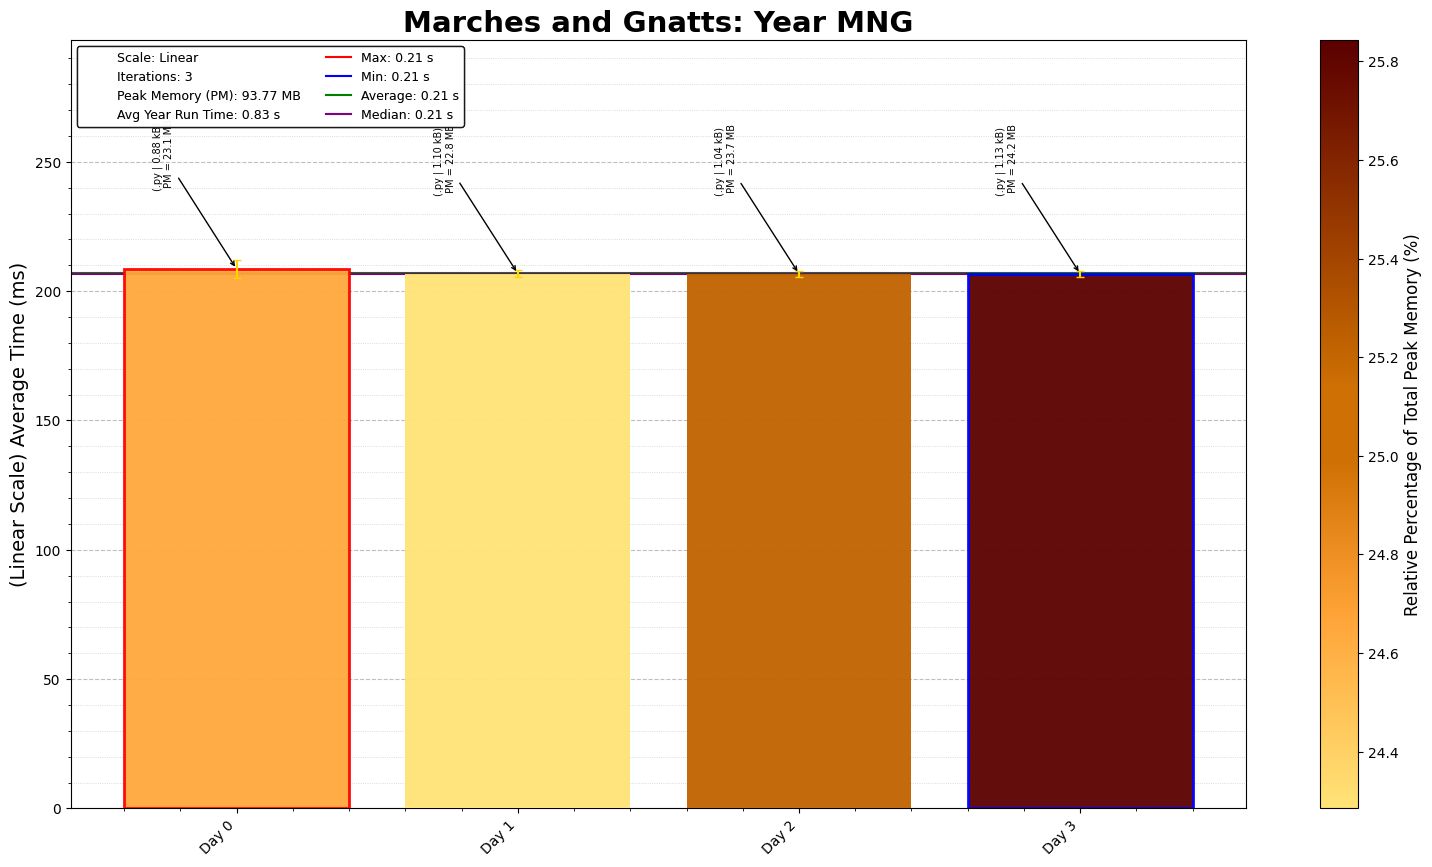
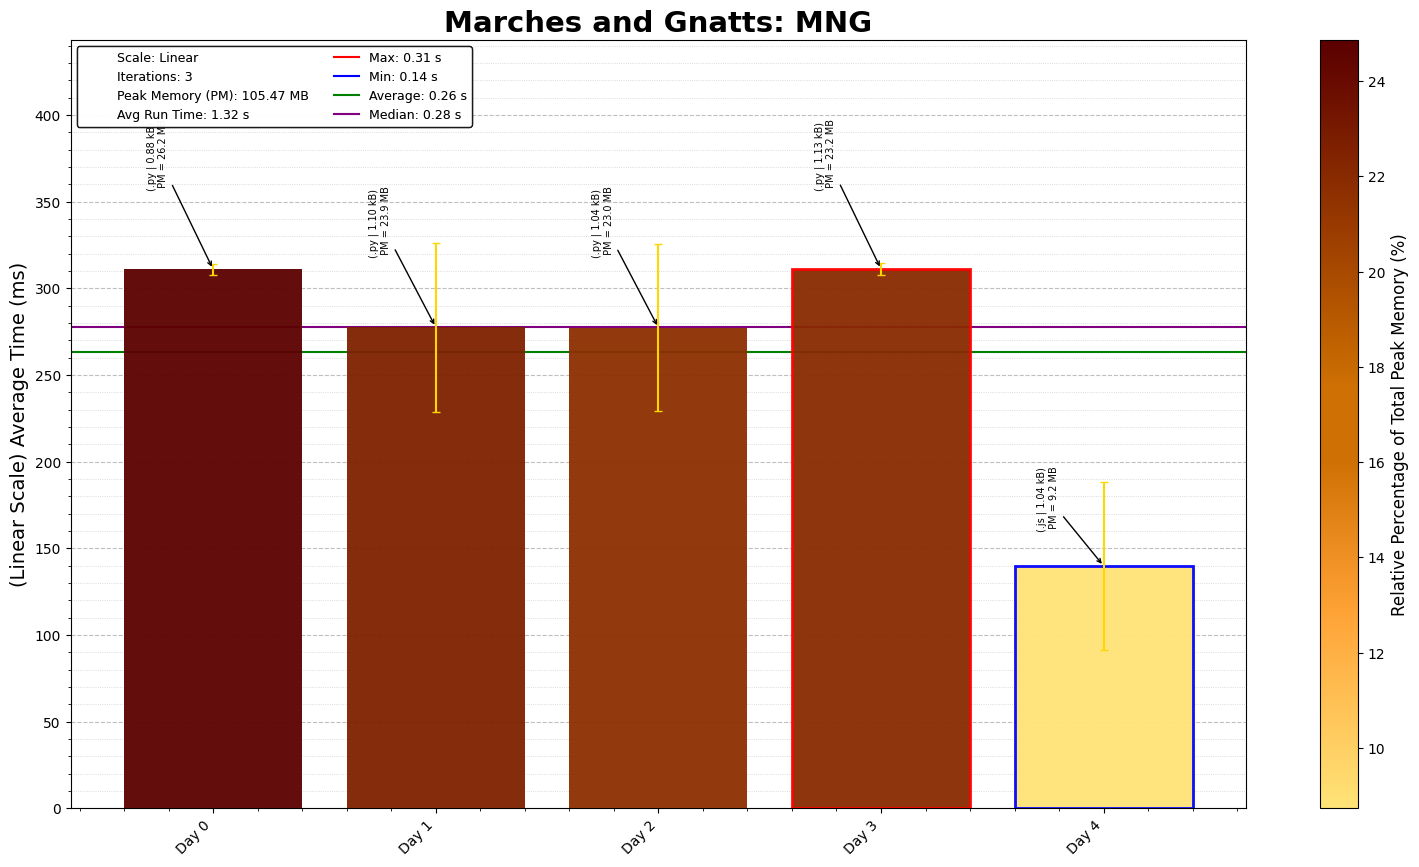
Quest 04: Unary Multiplication

diff --git a/MNG/04/MNGDay04.js b/MNG/04/MNGDay04.js
@@ -1,0 +1,41 @@
+import { TuringConfig, MachineLogic } from '../TuringMachineSim/javascript_machine/TuringBrain.js';
+import { TuringMachine } from '../TuringMachineSim/javascript_machine/BasicRunner.js';
+
+
+// Example usage:
+const rules = `
+INIT  | toB   _ R   // Erase | from a, move to copy b
+INIT  * SKIP  _ R   // All of a consumed, erase '*' and move to HALT
+
+toB   | toB   | R
+toB   * eachB * R   // Move to start copying b
+
+nextA _ INIT  _ R   // After one copy of b, move back to INIT
+nextA | nextA | L
+nextA * nextA * L
+
+SKIP  | SKIP  _ R   // Erase b
+SKIP  _ HALT  _ R
+
+eachB _ nextA _ L   // No more b to copy
+eachB | sep   _ R   // Copy this '|', erase original
+
+sep   _ add   _ R
+sep   | sep   | R
+
+add   _ sepL  | L   // Add copy of b to end
+add   | add   | R
+
+sepL  _ nextB _ L
+sepL  | sepL  | L
+
+nextB _ eachB | R   // Go back to copy next '|'
+nextB | nextB | L
+`;
+// console.log("HELLO");
+
+const sim = new TuringMachine(rules);
+const play_test = 0
+const init_tape = "|||*|||"
+sim.run_machine(init_tape, play_test, false);
+

diff --git a/MNG/04/AltMNGDay04.py b/MNG/04/AltMNGDay04.py
@@ -1,0 +1,109 @@
+"""Marches And Gnatts - Puzzle 4
+Solution Started: Jul 31, 2025
+Puzzle Link: https://mng.quest/quest/4/
+Solution by: Abbas Moosajee
+Brief: [Code/Problem Description]
+"""
+
+#!/usr/bin/env python3
+
+import os, re, copy, time
+import numpy as np
+import pandas as pd
+import matplotlib.pyplot as plt
+start_time = time.time()
+
+# Load the input data from the specified file path
+D04_file = "MNGDay04.js"
+D04_file_path = os.path.join(os.path.dirname(os.path.abspath(__file__)), D04_file)
+
+"""Marches And Gnatts - Puzzle 4
+Solution Started: Jul 28, 2025
+Puzzle Link: https://mng.quest/quest/4/unary-multiplication
+Solution by: Abbas Moosajee
+Brief: [Unary Multiplication]
+"""
+
+
+#!/usr/bin/env python3
+import os, re, copy, time, sys
+from pathlib import Path
+
+# Add the TuringMachineSim folder to path
+turing_path = Path(__file__).resolve().parent.parent / "TuringMachineSim"
+sys.path.insert(0, str(turing_path))
+
+from TuringModules import TuringMachine, TuringGUI
+
+mult_tape = "||||||||*|||"
+
+# Soln 1: steps = 1,442,415, rules = 19
+mult_rules1 = """
+    INIT  | toB   _ R   // Erase | from a, move to copy b
+    INIT  * SKIP  _ R   // All of a consumed, erase '*' and move to HALT
+
+    toB   | toB   | R
+    toB   * eachB * R   // Move to start copying b
+
+    nextA _ INIT  _ R   // After one copy of b, move back to INIT
+    nextA | nextA | L
+    nextA * nextA * L
+
+    SKIP  | SKIP  _ R   // Erase b
+    SKIP  _ HALT  _ R
+
+    eachB _ nextA _ L   // No more b to copy
+    eachB | sep   _ R   // Copy this '|', erase original
+
+    sep   _ add   _ R
+    sep   | sep   | R
+
+    add   _ sepL  | L   // Add copy of b to end
+    add   | add   | R
+
+    sepL  _ nextB _ L
+    sepL  | sepL  | L
+
+    nextB _ eachB | R   // Go back to copy next '|'
+    nextB | nextB | L
+    """
+
+# Soln |: steps =  , rules =
+mult_rules = """
+    INIT  | toB   _ R   // Erase | from a, move to copy b
+    INIT  * SKIP  _ R   // All of a consumed, erase '*' and move to HALT
+
+    toB   | toB   | R
+    toB   * eachB * R   // Move to start copying b
+
+    nextA _ INIT  _ R   // After one copy of b, move back to INIT
+    nextA | nextA | L
+    nextA * nextA * L
+
+    SKIP  | SKIP  _ R   // Erase b
+    SKIP  _ HALT  _ R
+
+    eachB _ nextA _ L   // No more b to copy
+    eachB | sep   _ R   // Copy this '|', erase original
+
+    sep   _ add   _ R
+    sep   | sep   | R
+
+    add   _ sepL  | L   // Add copy of b to end
+    add   | add   | R
+
+    sepL  _ nextB _ L
+    sepL  | sepL  | L
+
+    nextB _ eachB | R   // Go back to copy next '|'
+    nextB | nextB | L
+    """
+
+
+if __name__ == "__main__":
+    _, results, used_resources = TuringGUI(mult_rules).run_simulator(mult_tape)
+
+    # _, results, used_resources = TuringMachine(mult_rules).run_machine(mult_tape, visualize=True)
+
+    print_info = results + [""] + used_resources
+    print("\n".join(print_info))

diff --git a/MNG/Run_MNG.py b/MNG/Run_MNG.py
@@ -25,4 +25,4 @@ if __name__ == "__main__":
     print(f"Repository Directory: {selected_dir}")
 
     # Execute the challenge scripts
-    execute_challenge_scripts(CHALLENGE_NAME, YEAR, DAYS_TO_RUN, selected_dir, NUM_ITERATIONS, COLOR_MNG, save_file=False)
+    execute_challenge_scripts(CHALLENGE_NAME, YEAR, DAYS_TO_RUN, selected_dir, NUM_ITERATIONS, COLOR_MNG, save_file=True)

diff --git a/MNG/ReadME_MNG.md b/MNG/ReadME_MNG.md
@@ -11,6 +11,7 @@ A different spin on fairly basic coding problems, by using a mechanical Turing M
 - **Quest 01 - Unary Addition**: Probably the most basic of mathematical functions, addition yet can be made so complicated.
 - **Quest 02 - Unary Even Odd**: Determining if a unary number is even or odd, essentially solved by switching between Odd/Even until printing final state at end.
 - **Quest 03 - Binary Increment**: Increase a binary number by 1. The first solution where you have to evaluate between rules and steps
+- **Quest 04 - Unary Multiplication**: Multiply two unary numbers to produce a result tape.
 
 ---
 | Quest #  | Title              | [🔗 Solution]                  |  Steps     |Rules |
@@ -18,3 +19,4 @@ A different spin on fairly basic coding problems, by using a mechanical Turing M
 | Quest 01 | Unary Addition     | [View Solution](01\MNGDay01.py) | 28,143    | 3     |
 | Quest 02 | Unary Even/Odd     | [View Solution](02\MNGDay02.py) | 20,379    | 4     |
 | Quest 03 | Binary Increment   | [View Solution](03\MNGDay03.py) |    652    | 6     |
+| Quest 04 | Unary Multiplication   | [View Solution](04\MNGDay04.py) |1,442,415    | 19     |
